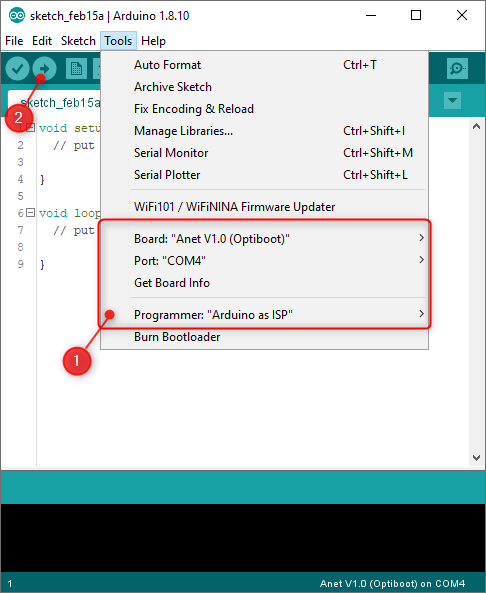
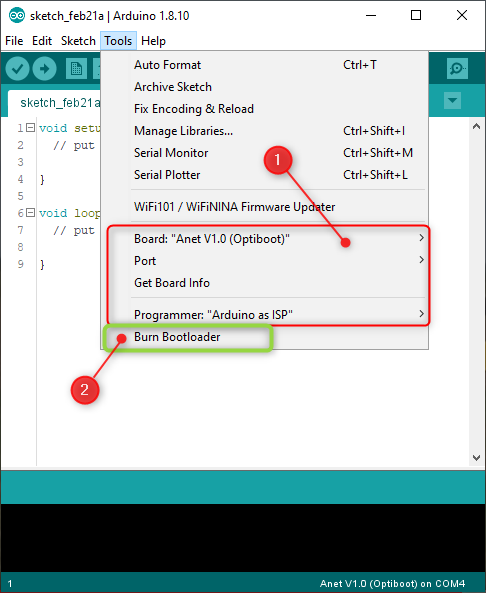
updated the configure the marlin firmware section and added picture of vscode setup

diff --git a/Marlin-1.1.x/Marlin/Configuration.h b/Marlin-1.1.x/Marlin/Configuration.h
@@ -310,12 +310,12 @@
  *
  * :{ '0': "Not used", '1':"100k / 4.7k - EPCOS", '2':"200k / 4.7k - ATC Semitec 204GT-2", '3':"Mendel-parts / 4.7k", '4':"10k !! do not use for a hotend. Bad resolution at high temp. !!", '5':"100K / 4.7k - ATC Semitec 104GT-2 (Used in ParCan & J-Head)", '501':"100K Zonestar (Tronxy X3A)", '6':"100k / 4.7k EPCOS - Not as accurate as Table 1", '7':"100k / 4.7k Honeywell 135-104LAG-J01", '8':"100k / 4.7k 0603 SMD Vishay NTCS0603E3104FXT", '9':"100k / 4.7k GE Sensing AL03006-58.2K-97-G1", '10':"100k / 4.7k RS 198-961", '11':"100k / 4.7k beta 3950 1%", '12':"100k / 4.7k 0603 SMD Vishay NTCS0603E3104FXT (calibrated for Makibox hot bed)", '13':"100k Hisens 3950  1% up to 300°C for hotend 'Simple ONE ' & hotend 'All In ONE'", '20':"PT100 (Ultimainboard V2.x)", '51':"100k / 1k - EPCOS", '52':"200k / 1k - ATC Semitec 204GT-2", '55':"100k / 1k - ATC Semitec 104GT-2 (Used in ParCan & J-Head)", '60':"100k Maker's Tool Works Kapton Bed Thermistor beta=3950", '66':"Dyze Design 4.7M High Temperature thermistor", '70':"the 100K thermistor found in the bq Hephestos 2", '71':"100k / 4.7k Honeywell 135-104LAF-J01", '147':"Pt100 / 4.7k", '1047':"Pt1000 / 4.7k", '110':"Pt100 / 1k (non-standard)", '1010':"Pt1000 / 1k (non standard)", '-4':"Thermocouple + AD8495", '-3':"Thermocouple + MAX31855 (only for sensor 0)", '-2':"Thermocouple + MAX6675 (only for sensor 0)", '-1':"Thermocouple + AD595",'998':"Dummy 1", '999':"Dummy 2" }
  */
-#define TEMP_SENSOR_0 5
+#define TEMP_SENSOR_0 1
 #define TEMP_SENSOR_1 0
 #define TEMP_SENSOR_2 0
 #define TEMP_SENSOR_3 0
 #define TEMP_SENSOR_4 0
-#define TEMP_SENSOR_BED 5
+#define TEMP_SENSOR_BED 1
 #define TEMP_SENSOR_CHAMBER 0
 
 // Dummy thermistor constant temperature readings, for use with 998 and 999

diff --git a/README.md b/README.md
@@ -118,7 +118,7 @@ Head To ( Tools -> Port -> Select Arduino Available Port )
 
 Then Below The Menu Bar Click Tick Sign To Compile, If Successfully Compiled With no errors, Then click the arrow sign next to the tick sign and wait for Arduino to report Done Uploading Sketch.
 
-#### Step 2 - Download The Nessesary Of The Boot Loader & Install It On Arduino IDE
+#### Step 2 - Download The Necessary Files Of The Boot Loader & Install It On Arduino IDE
 The board that you have originally don't have a bootloader, so it cant talk to your compiler to burn the firmware via USB like the Arduino does, so in order to make it accept new firmware through USB. we have to download some files to make Arduino environment to recognize the board as (Anet A8) [Click Here To Download The Files Needed](https://github.com/SkyNet3D/anet-board)
 
 ![](./images/38.png)
@@ -158,13 +158,39 @@ Head to ( Boards -> Programmer -> Arduino as ISP )
 
 ![](./images/42.png)
 
-Then click the arrow next to the tick sign to burn optiboot to your board - done
+make sure that you selected every thing like (Step1) Then click the Burn bootloader (Step2) to burn optiboot to your board - done
 
 ![](./images/43.png)
 
 at this point after burning the bootloader to your board you no longer need the **Arduino UNO** connected to your board, disconnect **Arduino UNO** and connect the USB cable directly to your board.
 
 ## 5. Configuring Marlin
+
+### Preparing Visual Studio Code Environment
+Start Visual Studio code, and make sure you installed Platform I/O previously, If you haven't installed platform I/O yet please click here to see how to install Platform I/O then continue with this tutorial
+
+![](./images/46.png)
+
+![](./images/47.png)
+
+1. File -> Open Project Folder
+
+![](./images/48.png)
+
+Head to the folder you downloaded and navigate to marlin-1.1.x
+
+then click select folder
+
+2. Head to file platform.ini
+
+![](./images/49.png)
+
+change the content to be same as number 2, to make the compiler recognize the board micro controller
+
+3. Head to [Configuration.h](./Marlin-1.1.x/Marlin/Configuration.h) File
+
+![](./images/50.png)
+
 if you have bought the very same 3D printer with same T2 belts and same pully, here are some value you need to put in [Configuration.h](./Marlin-1.1.x/Marlin/Configuration.h) file in marlin folder to get the right movement distances.
 
 ### Parameters To Change
@@ -194,12 +220,12 @@ These are some fixed parameters based on TRONXY 3D Printer build
 ```
 #### Thermal Settings - Line 313 to 319
 ```
-#define TEMP_SENSOR_0 5
+#define TEMP_SENSOR_0 1
 #define TEMP_SENSOR_1 0
 #define TEMP_SENSOR_2 0
 #define TEMP_SENSOR_3 0
 #define TEMP_SENSOR_4 0
-#define TEMP_SENSOR_BED 5
+#define TEMP_SENSOR_BED 1
 #define TEMP_SENSOR_CHAMBER 0
 ```
 #### Mechanical End Stops - Line 530 to 537
@@ -429,9 +455,30 @@ Save the file, and move on to the next step, uploading the firmware to your boar
 
 ## 6. Uploading Compiled Marlin Firmware
 
+1. Compile the Code
+2. Check If The File Compiled Successfully
+3. On this step assuming you got it compiled successfully -> make sure that the USB cable is connected between your computer and your 3D printer board -> Click The Arrow To Start Uploading The Firmware.
 
-## 7. Tips For 3D Printing From Now On
-You need to customize your starting GCODE to do the following before any prints
+![](./images/51.png)
+
+Once Finished You can connect to your 3D printer software before you start printing preferably using the following software (click the names so you can download them if you don't have them and install them)
+
+* [Pronterface - Pronterface](http://kliment.kapsi.fi/printrun/Printrun-win-18Nov2017.zip) "Don't require Installation Just Unzip And Run The Red Exe File"
+* [Repetier-Host](http://download.repetier.com/files/host/win/setupRepetierHost_2_1_6.exe) "Installation Required"
+
+Connect to your 3D printer by selecting the baud rate you have specified in the [Configuration.h](./Marlin-1.1.x/Marlin/Configuration.h) on line# 126 and then select the USB port. Click Connect. Here You are connected And done with this step now its time to set the Z Offset.
+
+### Adjusting Z offset
+
+  1. Preheat Your HOTEND and Heated BED
+  2. Using Commands Text Box Do The following
+    * Type G28 and press SEND Button "The Printer Will Home X, Y Axis And Finally will move to the center of the bed and try to Home Z"
+  3. At this point the sensor will detect your bead but your nozzle will not be touching the bed.
+    * Type 
+
+## 7. Tips & Good Practice For 3D Printing From Now On
+since you are going to use the auto leveling sensor, you have to know that metals expand when Heated up, so if you do auto leveling before heating the bed it might give you wrong results that may cause you the loss of your print. so take the following steps in every print. You need to customize your starting GCODE to do the following before any prints
+
 1. Preheat The BED and HOTEND corresponding to the material you are going to print with
 2. Run Homing Routine G28
 3. Run Auto Leveling Routine G29
